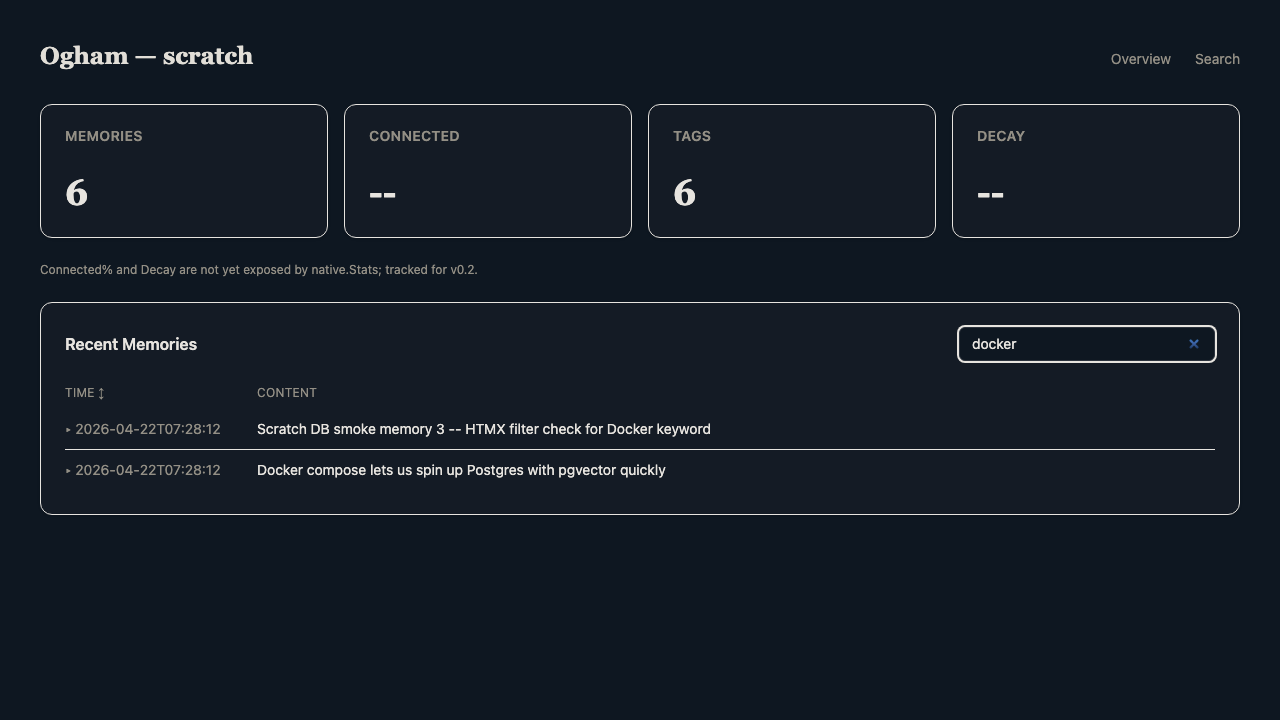
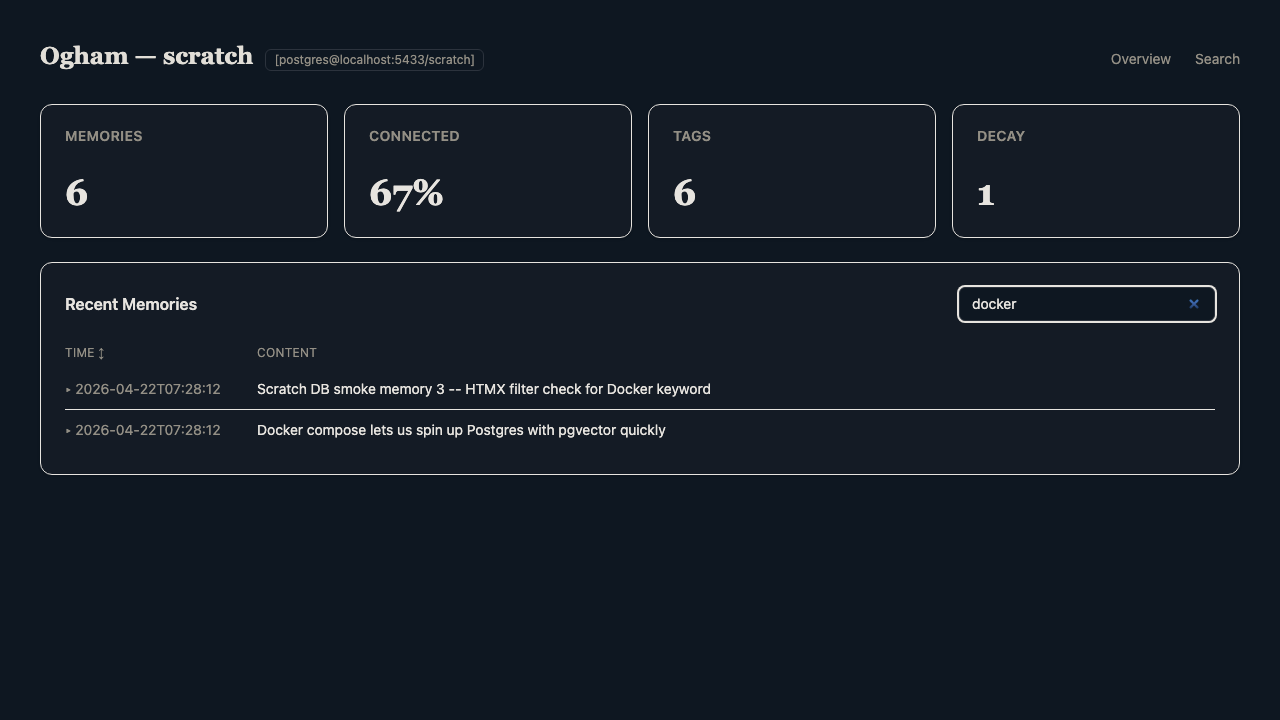
feat(dashboard): consume ConnectedPct + DecayCount + show backend
The two honesty gaps the Phase 1 prototype flagged are closed.

Overview stat cards now resolve all 4 numbers to real values --
Connected% and Decay previously rendered as "--" with a footnote
explaining the native.Stats API gap. With the previous commit filling
the gap, buildStatCards pulls ConnectedPct and DecayCount directly
and drops the footnote. New formatPct helper rounds 0-100 floats to
integer percent with clamping at the bounds.

Header now carries a small pill-shaped backend indicator rendered
next to the "Ogham -- <profile>" title, telling the operator which
database the dashboard is actually reading from. Two worked cases:

  [postgres@localhost:5433/scratch]
  [supabase@gljsgbhfaqjsoexwlvzf]

This addresses the ResolveBackend precedence surprise -- when both
SUPABASE_URL and DATABASE_URL are set, Supabase wins silently. The
pill makes that choice visible without having to `ogham config
show`. Passwords and API keys are stripped; postgresHostDB +
supabaseProjectRef extract only the host/DB/project-ref portions.

Layout ViewData grew a Backend field; the templ file + regenerated
layout_templ.go wire the conditional `<span>` next to the h1.

Tests:
- TestBuildStatCards_Populated updated to verify ConnectedPct + Decay
  cards render real values and the note is empty.
- TestFormatPct: 0/half-up rounding, upper-bound + negative clamps.
- TestBackendLabel: postgres DSN, postgres precedence wins when both
[…]

diff --git a/internal/dashboard/templates/layout_templ.go b/internal/dashboard/templates/layout_templ.go
@@ -10,9 +10,12 @@ import templruntime "github.com/a-h/templ/runtime"
 
 // ViewData is the layout-wide context every page templ receives.
 // Intentionally minimal for the prototype -- no auth, no user, no
-// session -- just the active profile name for the header chrome.
+// session -- active profile + backend label for the header chrome.
+// Backend is a short credential-free string like "postgres@host/db"
+// or "supabase@project-ref"; see handlers.backendLabel.
 type ViewData struct {
 	Profile string
+	Backend string
 }
 
 // Layout is the base HTML scaffold: <head> with the compiled Tailwind
@@ -46,20 +49,20 @@ func Layout(vd ViewData, title string) templ.Component {
 		var templ_7745c5c3_Var2 string
 		templ_7745c5c3_Var2, templ_7745c5c3_Err = templ.JoinStringErrs(title)
 		if templ_7745c5c3_Err != nil {
-			return templ.Error{Err: templ_7745c5c3_Err, FileName: `templates/layout.templ`, Line: 19, Col: 17}
+			return templ.Error{Err: templ_7745c5c3_Err, FileName: `layout.templ`, Line: 22, Col: 17}
 		}
 		_, templ_7745c5c3_Err = templ_7745c5c3_Buffer.WriteString(templ.EscapeString(templ_7745c5c3_Var2))
 		if templ_7745c5c3_Err != nil {
 			return templ_7745c5c3_Err
 		}
-		templ_7745c5c3_Err = templruntime.WriteString(templ_7745c5c3_Buffer, 2, " -- Ogham</title><link rel=\"stylesheet\" href=\"/static/styles.css\"><script src=\"/static/htmx.min.js\" defer></script></head><body class=\"min-h-screen p-10 bg-background text-foreground\" data-theme=\"ogham\"><div class=\"flex items-baseline justify-between mb-8\"><h1 class=\"text-2xl font-semibold text-foreground\" style=\"font-family: var(--font-serif);\">Ogham ")
+		templ_7745c5c3_Err = templruntime.WriteString(templ_7745c5c3_Buffer, 2, " -- Ogham</title><link rel=\"stylesheet\" href=\"/static/styles.css\"><script src=\"/static/htmx.min.js\" defer></script></head><body class=\"min-h-screen p-10 bg-background text-foreground\" data-theme=\"ogham\"><div class=\"flex items-baseline justify-between mb-8\"><div class=\"flex items-baseline gap-3\"><h1 class=\"text-2xl font-semibold text-foreground\" style=\"font-family: var(--font-serif);\">Ogham ")
 		if templ_7745c5c3_Err != nil {
 			return templ_7745c5c3_Err
 		}
 		var templ_7745c5c3_Var3 string
 		templ_7745c5c3_Var3, templ_7745c5c3_Err = templ.JoinStringErrs("—")
 		if templ_7745c5c3_Err != nil {
-			return templ.Error{Err: templ_7745c5c3_Err, FileName: `templates/layout.templ`, Line: 26, Col: 18}
+			return templ.Error{Err: templ_7745c5c3_Err, FileName: `layout.templ`, Line: 30, Col: 19}
 		}
 		_, templ_7745c5c3_Err = templ_7745c5c3_Buffer.WriteString(templ.EscapeString(templ_7745c5c3_Var3))
 		if templ_7745c5c3_Err != nil {
@@ -72,13 +75,36 @@ func Layout(vd ViewData, title string) templ.Component {
 		var templ_7745c5c3_Var4 string
 		templ_7745c5c3_Var4, templ_7745c5c3_Err = templ.JoinStringErrs(vd.Profile)
 		if templ_7745c5c3_Err != nil {
-			return templ.Error{Err: templ_7745c5c3_Err, FileName: `templates/layout.templ`, Line: 26, Col: 33}
+			return templ.Error{Err: templ_7745c5c3_Err, FileName: `layout.templ`, Line: 30, Col: 34}
 		}
 		_, templ_7745c5c3_Err = templ_7745c5c3_Buffer.WriteString(templ.EscapeString(templ_7745c5c3_Var4))
 		if templ_7745c5c3_Err != nil {
 			return templ_7745c5c3_Err
 		}
-		templ_7745c5c3_Err = templruntime.WriteString(templ_7745c5c3_Buffer, 4, "</h1><nav class=\"flex items-center gap-6 text-sm\"><a href=\"/\" class=\"text-muted-foreground hover:text-foreground\">Overview</a> <a href=\"/search\" class=\"text-muted-foreground hover:text-foreground\">Search</a></nav></div>")
+		templ_7745c5c3_Err = templruntime.WriteString(templ_7745c5c3_Buffer, 4, "</h1>")
+		if templ_7745c5c3_Err != nil {
+			return templ_7745c5c3_Err
+		}
+		if vd.Backend != "" {
+			templ_7745c5c3_Err = templruntime.WriteString(templ_7745c5c3_Buffer, 5, "<span class=\"text-xs text-muted-foreground px-2 py-0.5 rounded-md border\" style=\"border-color: var(--border);\" title=\"Active backend resolved from DATABASE_URL / SUPABASE_URL\">")
+			if templ_7745c5c3_Err != nil {
+				return templ_7745c5c3_Err
+			}
+			var templ_7745c5c3_Var5 string
+			templ_7745c5c3_Var5, templ_7745c5c3_Err = templ.JoinStringErrs("[" + vd.Backend + "]")
+			if templ_7745c5c3_Err != nil {
+				return templ.Error{Err: templ_7745c5c3_Err, FileName: `layout.templ`, Line: 38, Col: 31}
+			}
+			_, templ_7745c5c3_Err = templ_7745c5c3_Buffer.WriteString(templ.EscapeString(templ_7745c5c3_Var5))
+			if templ_7745c5c3_Err != nil {
+				return templ_7745c5c3_Err
+			}
+			templ_7745c5c3_Err = templruntime.WriteString(templ_7745c5c3_Buffer, 6, "</span>")
+			if templ_7745c5c3_Err != nil {
+				return templ_7745c5c3_Err
+			}
+		}
+		templ_7745c5c3_Err = templruntime.WriteString(templ_7745c5c3_Buffer, 7, "</div><nav class=\"flex items-center gap-6 text-sm\"><a href=\"/\" class=\"text-muted-foreground hover:text-foreground\">Overview</a> <a href=\"/search\" class=\"text-muted-foreground hover:text-foreground\">Search</a></nav></div>")
 		if templ_7745c5c3_Err != nil {
 			return templ_7745c5c3_Err
 		}
@@ -86,7 +112,7 @@ func Layout(vd ViewData, title string) templ.Component {
 		if templ_7745c5c3_Err != nil {
 			return templ_7745c5c3_Err
 		}
-		templ_7745c5c3_Err = templruntime.WriteString(templ_7745c5c3_Buffer, 5, "</body></html>")
+		templ_7745c5c3_Err = templruntime.WriteString(templ_7745c5c3_Buffer, 8, "</body></html>")
 		if templ_7745c5c3_Err != nil {
 			return templ_7745c5c3_Err
 		}

diff --git a/internal/dashboard/handlers.go b/internal/dashboard/handlers.go
@@ -2,8 +2,10 @@ package dashboard
 
 import (
 	"context"
+	"fmt"
 	"log/slog"
 	"net/http"
+	"net/url"
 	"strings"
 	"time"
 
@@ -116,21 +118,97 @@ func (h *handlers) healthz(w http.ResponseWriter, r *http.Request) {
 	_, _ = w.Write([]byte("ok\n"))
 }
 
-// viewData packages the per-request layout context. Profile is the only
-// moving piece today; future iterations will add nav-state highlighting.
+// viewData packages the per-request layout context. Profile + backend
+// indicator feed the header chrome; the backend pill tells the operator
+// at a glance which database the dashboard is actually reading from
+// (important when both SUPABASE_URL and DATABASE_URL are set and
+// ResolveBackend's precedence silently picks one).
 func (h *handlers) viewData() ViewData {
 	profile := h.cfg.Profile
 	if profile == "" {
 		profile = "default"
 	}
-	return ViewData{Profile: profile}
+	return ViewData{Profile: profile, Backend: backendLabel(h.cfg)}
 }
 
-// buildStatCards maps native.Stats into the 4 locked card numbers. The
-// prototype exposes only Memories + Tags from the stats payload today --
-// Connected% and Decay count require predicates native.Stats doesn't
-// currently compute. They ship as "--" with an "API gap" footnote so
-// we don't invent numbers; a v0.2 task will backfill.
+// backendLabel returns a short, credential-free string identifying the
+// active backend. Examples:
+//
+//	postgres@localhost:5433/scratch
+//	supabase@gljsgbhfaqjsoexwlvzf
+//
+// Password + API key are never included. A misconfigured Config falls
+// back to "unconfigured" so the header still renders instead of
+// showing an error-stained pill.
+func backendLabel(cfg *native.Config) string {
+	if cfg == nil {
+		return "unconfigured"
+	}
+	backend, err := cfg.ResolveBackend()
+	if err != nil {
+		return "unconfigured"
+	}
+	switch backend {
+	case "postgres":
+		return "postgres@" + postgresHostDB(cfg.Database.URL)
+	case "supabase":
+		return "supabase@" + supabaseProjectRef(cfg.Database.SupabaseURL)
+	default:
+		return backend
+	}
+}
+
+// postgresHostDB parses a postgres://user:pass@host:port/db style DSN
+// and returns "host:port/db" -- never the credentials. Unparseable
+// input returns "unknown" so the header pill still renders.
+func postgresHostDB(dsn string) string {
+	if dsn == "" {
+		return "unknown"
+	}
+	u, err := url.Parse(dsn)
+	if err != nil || u.Host == "" {
+		return "unknown"
+	}
+	host := u.Host
+	// Strip a trailing slash on the path to get the bare db name.
+	db := strings.TrimPrefix(u.Path, "/")
+	if db == "" {
+		return host
+	}
+	return fmt.Sprintf("%s/%s", host, db)
+}
+
+// supabaseProjectRef extracts just the subdomain from a URL like
+// https://gljsgbhfaqjsoexwlvzf.supabase.co. A bare host without a
+// dotted domain falls back to returning the host verbatim.
+func supabaseProjectRef(raw string) string {
+	if raw == "" {
+		return "unknown"
+	}
+	u, err := url.Parse(raw)
+	if err != nil || u.Host == "" {
+		// Fallback: strip scheme manually if url.Parse couldn't.
+		host := strings.TrimPrefix(raw, "https://")
+		host = strings.TrimPrefix(host, "http://")
+		host = strings.TrimSuffix(host, "/")
+		if host == "" {
+			return "unknown"
+		}
+		return host
+	}
+	host := u.Host
+	// "abc.supabase.co" -> "abc" (just the project-ref).
+	if i := strings.IndexByte(host, '.'); i > 0 {
+		return host[:i]
+	}
+	return host
+}
+
+// buildStatCards maps native.Stats into the 4 locked card numbers. All
+// four cards now resolve to real values -- Connected% and Decay are
+// populated directly from the native.Stats fields added alongside this
+// dashboard change. The Note below the grid is reserved for a single-
+// sentence error caveat (nil stats only).
 func buildStatCards(s *native.Stats) StatCards {
 	if s == nil {
 		return StatCards{
@@ -143,11 +221,28 @@ func buildStatCards(s *native.Stats) StatCards {
 	}
 	return StatCards{
 		Memories:  formatInt(s.Total),
-		Connected: "--",
+		Connected: formatPct(s.ConnectedPct),
 		Tags:      formatInt(int64(len(s.TopTags))),
-		Decay:     "--",
-		Note:      "Connected% and Decay are not yet exposed by native.Stats; tracked for v0.2.",
+		Decay:     formatInt(s.DecayCount),
 	}
+}
+
+// formatPct renders a 0-100 float as the integer percentage + "%".
+// Dashboard cards prefer integer bucketing for readability; 3.7% and
+// 4.2% are both "4%" under this rule. Edge cases:
+//   - negative values (shouldn't happen) clamp to 0.
+//   - values >100 (also shouldn't happen) clamp to 100 to avoid a
+//     card like "134%" blowing past the column width.
+func formatPct(v float64) string {
+	if v <= 0 {
+		return "0%"
+	}
+	if v >= 100 {
+		return "100%"
+	}
+	// Round-half-up via +0.5 rather than math.Round to keep this
+	// allocation-free and avoid importing math just for one call.
+	return itoa(int64(v+0.5)) + "%"
 }
 
 // clientFilter is the dumb in-memory filter the Overview page uses for

diff --git a/internal/dashboard/handlers_test.go b/internal/dashboard/handlers_test.go
@@ -55,6 +55,32 @@ func TestOverview_ErrorBannerRenders(t *testing.T) {
 	if !strings.Contains(body, "Data error") {
 		t.Errorf("expected Data error banner; body head: %q", body[:min(300, len(body))])
 	}
+	// Header pill renders even on an unconfigured backend.
+	if !strings.Contains(body, "[unconfigured]") {
+		t.Errorf("missing [unconfigured] backend pill in header")
+	}
+}
+
+func TestOverview_HeaderShowsPostgresBackend(t *testing.T) {
+	h := &handlers{cfg: &native.Config{
+		Profile: "scratch",
+		Database: native.Database{
+			URL: "postgresql://scratch:scratch_dev_local@localhost:5433/scratch",
+		},
+	}}
+	rr := httptest.NewRecorder()
+	req := httptest.NewRequest(http.MethodGet, "/", nil)
+
+	h.overview(rr, req)
+
+	body := rr.Body.String()
+	if !strings.Contains(body, "[postgres@localhost:5433/scratch]") {
+		t.Errorf("expected postgres backend pill in header; body head: %q", body[:min(500, len(body))])
+	}
+	// Credentials must not appear in the rendered HTML.
+	if strings.Contains(body, "scratch_dev_local") {
+		t.Errorf("password leaked into rendered HTML")
+	}
 }
 
 func TestOverview_RejectsNonRootPath(t *testing.T) {
@@ -142,6 +168,8 @@ func TestBuildStatCards_Populated(t *testing.T) {
 			{Name: "type:decision", Count: 10},
 			{Name: "project:ogham", Count: 5},
 		},
+		ConnectedPct: 42.5,
+		DecayCount:   7,
 	}
 	got := buildStatCards(s)
 	if got.Memories != "1,234" {
@@ -149,6 +177,100 @@ func TestBuildStatCards_Populated(t *testing.T) {
 	}
 	if got.Tags != "2" {
 		t.Errorf("Tags: got %q want %q", got.Tags, "2")
+	}
+	// formatPct rounds half-up: 42.5 -> 43%.
+	if got.Connected != "43%" {
+		t.Errorf("Connected: got %q want %q", got.Connected, "43%")
+	}
+	if got.Decay != "7" {
+		t.Errorf("Decay: got %q want %q", got.Decay, "7")
+	}
+	// Populated stats should NOT carry a note -- the "not yet exposed"
+	// caveat is gone now that all 4 cards resolve to real values.
+	if got.Note != "" {
+		t.Errorf("populated stats should not carry a note; got %q", got.Note)
+	}
+}
+
+func TestFormatPct(t *testing.T) {
+	cases := map[float64]string{
+		0:    "0%",
+		0.1:  "0%", // rounds down below 0.5
+		0.5:  "1%", // half-up
+		42.3: "42%",
+		42.5: "43%",
+		99.9: "100%", // clamped at upper bound (>=100 returns "100%")
+		100:  "100%",
+		150:  "100%",
+		-5:   "0%",
+	}
+	for in, want := range cases {
+		if got := formatPct(in); got != want {
+			t.Errorf("formatPct(%v): got %q want %q", in, got, want)
+		}
+	}
+}
+
+func TestBackendLabel(t *testing.T) {
+	cases := []struct {
+		name string
+		cfg  *native.Config
+		want string
+	}{
+		{
+			name: "postgres full DSN",
+			cfg: &native.Config{
+				Database: native.Database{
+					URL: "postgresql://scratch:secret@localhost:5433/scratch",
+				},
+			},
+			want: "postgres@localhost:5433/scratch",
+		},
+		{
+			name: "postgres precedence when both set (explicit backend wins)",
+			cfg: &native.Config{
+				Database: native.Database{
+					Backend:     "postgres",
+					URL:         "postgresql://user:pw@db.internal:5432/ogham",
+					SupabaseURL: "https://abc.supabase.co",
+					SupabaseKey: "sb_key",
+				},
+			},
+			want: "postgres@db.internal:5432/ogham",
+		},
+		{
+			name: "supabase project-ref",
+			cfg: &native.Config{
+				Database: native.Database{
+					SupabaseURL: "https://gljsgbhfaqjsoexwlvzf.supabase.co",
+					SupabaseKey: "sb_secret_abc",
+				},
+			},
+			want: "supabase@gljsgbhfaqjsoexwlvzf",
+		},
+		{
+			name: "unconfigured",
+			cfg:  &native.Config{},
+			want: "unconfigured",
+		},
+		{
+			name: "nil cfg",
+			cfg:  nil,
+			want: "unconfigured",
+		},
+	}
+	for _, tc := range cases {
+		t.Run(tc.name, func(t *testing.T) {
+			got := backendLabel(tc.cfg)
+			if got != tc.want {
+				t.Errorf("got %q want %q", got, tc.want)
+			}
+			// Credential hygiene: the password must never appear even
+			// when we mutate the DSN formatting.
+			if strings.Contains(got, "secret") || strings.Contains(got, "sb_key") {
+				t.Errorf("backend label leaked credentials: %q", got)
+			}
+		})
 	}
 }
 
